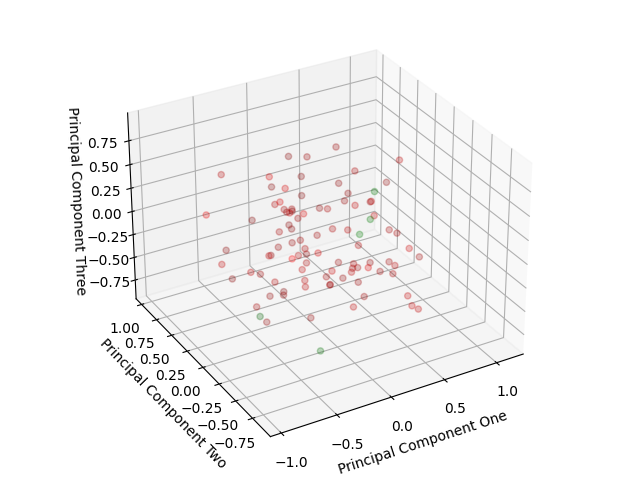
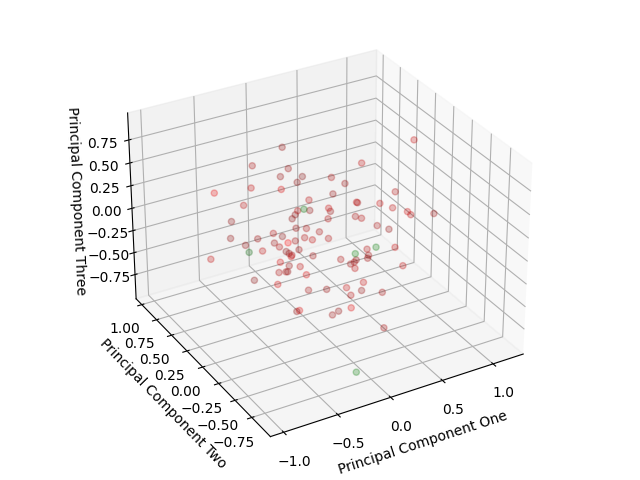
visualization,propre

diff --git a/embedNregress_v1.py b/embedNregress_v1.py
@@ -510,27 +510,28 @@ if __name__ == "__main__":
     OD_key = list(data0.keys())[0]
     FL_key = list(data0.keys())[1]
     odfloor = 0.01;
-    this_baseline_od_data = data0[OD_key]
-    this_baseline_fl_data = data0[FL_key]
-    this_induced_od_data = data1[OD_key]
-    this_induced_fl_data = data1[FL_key]
+    baseline_od_data = data0[OD_key]
+    baseline_fl_data = data0[FL_key]
+    induced_od_data = data1[OD_key]
+    induced_fl_data = data1[FL_key]
     
-    this_time = time0[FL_key][0:360]
+    time_vec = time0[FL_key][0:360]
     foldchangedata = np.zeros((8,12,360))
     for row in range(0,8):
         for col in range(0,12):
             print(this_induced_fl_data.shape)
             print(this_time.shape)
-            odnormfl_induced = this_induced_fl_data[row][col][0:360]/(this_induced_od_data[row][col][0:360]+odfloor)
-            odnormfl_baseline = this_baseline_fl_data[row][col][0:360]/(this_baseline_od_data[row][col][0:360]+odfloor)
-            this_foldchange = odnormfl_induced/odnormfl_baseline
+            odnormfl_induced = induced_fl_data[row][col][0:360]/(induced_od_data[row][col][0:360]+odfloor)
+            odnormfl_baseline = baseline_fl_data[row][col][0:360]/(baseline_od_data[row][col][0:360]+odfloor)
+            this_foldchange = odnormfl_induced/odnormfl_baseline  #fold change for a particular row, col combination 
             foldchangedata[row,col,:] = this_foldchange
 
-            plt.scatter(this_time,this_foldchange)
+            plt.scatter(time_vec,this_foldchange)
             
     this_fig.savefig('/home/yeunglab/AlecOutputData/FoldChangeofPlateReader.eps')
 
     listed_foldchangedata = foldchangedata.reshape(int(foldchangedata.shape[0]*foldchangedata.shape[1]),foldchangedata.shape[2])
+    
     
     print("listed fold change data shape: " + repr(listed_foldchangedata.shape))
     
@@ -693,30 +694,37 @@ if __name__ == "__main__":
     ax = fig.add_subplot(111, projection='3d')
 
     this_colors = 0*np.random.rand(len(X_transformed), 6)
-    print(this_labels)
+    
+    foldchange_colorscale = np.sum(listed_foldchangedata,axis=1)  # sum over all the timepoints (area of the curve) but leave the row index as the URI for the sequence/embedding (this will give a 96 x 1 array) 
+    foldchange_colorscale = foldchange_colorscale/np.max(foldchange_colorscale)
 
     # For each set of style and range settings, plot n random points in the box
     # defined by x in [23, 32], y in [0, 100], z in [zlow, zhigh].
+    
+    rgb_scheme = np.zeros((len(X_transformed),3))
     for x_ind in range(0,len(X_transformed)):
-        x= X_transformed[x_ind][0]
-        y= X_transformed[x_ind][1]
-        z= X_transformed[x_ind][2]
-        if this_labels[x_ind]>0.10:
-            this_colors[x_ind][0] = this_labels[x_ind]/np.max(this_labels)
-        if 0.20>this_labels[x_ind]>0.30:
-            this_colors[x_ind][1] = this_labels[x_ind]/np.max(this_labels)
-        if 0.40>this_labels[x_ind]>50:
-            this_colors[x_ind][2] = this_labels[x_ind]/np.max(this_labels)
-        if 0.60>this_labels[x_ind]>0.70:
-            this_colors[x_ind][3] = this_labels[x_ind]/np.max(this_labels)
-        if 0.80>this_labels[x_ind]>0.90:
-            this_colors[x_ind][4] = this_labels[x_ind]/np.max(this_labels)
-        if 0.90>this_labels[x_ind]>1.0:
-            this_colors[x_ind][5] = this_labels[x_ind]/np.max(this_labels)
+        rgb_scheme[x_ind,0] = 1.0-foldchange_colorscale[x_ind]
+        rgb_scheme[x_ind,1] = foldchange_colorscale[x_ind]
+        
+        #x= X_transformed[x_ind][0]
+        #y= X_transformed[x_ind][1]
+        #z= X_transformed[x_ind][2]
+        #if this_labels[x_ind]>0.10:
+        #    this_colors[x_ind][0] = foldchange_colorscale[ind]
+        #if 0.20>this_labels[x_ind]>0.30:
+        #    this_colors[x_ind][1] = this_labels[x_ind]/np.max(this_labels)
+        #if 0.40>this_labels[x_ind]>0.50:
+        #    this_colors[x_ind][2] = this_labels[x_ind]/np.max(this_labels)
+        #if 0.60>this_labels[x_ind]>0.70:
+        #    this_colors[x_ind][3] = this_labels[x_ind]/np.max(this_labels)
+        #if 0.80>this_labels[x_ind]>0.90:
+        #    this_colors[x_ind][4] = this_labels[x_ind]/np.max(this_labels)
+        #if 0.90>this_labels[x_ind]>1.0:
+        #    this_colors[x_ind][5] = this_labels[x_ind]/np.max(this_labels)
             
 
     ax.scatter(X_transformed[:,0], X_transformed[:,1],X_transformed[:,2],
-               c=this_colors, marker='o',alpha=0.25)
+               c=rgb_scheme, marker='o',alpha=0.25)
     ax.view_init(30, azim=240)
     ax.set_xlabel('Principal Component One')
     ax.set_ylabel('Principal Component Two')
